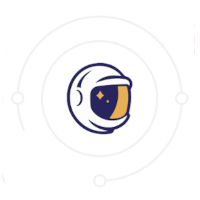
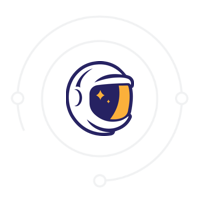
gvisor.dev homepage: Minor fixes.
This CL does the following:

- Add `<strong>emphasis</strong>` on the important keywords for each panel
- Mention "LLM-generated code" as code that can be sandboxed in gVisor
- Change "GPU support" header to "GPU & CUDA support"
- Add PNG transparency to images where it was missing
- Remove link to raw image file on architecture diagram
- Adjust panel icon size
- Adjust `<h2>` margins in panels
- Small CSS cleanups

PiperOrigin-RevId: 548764864

Changed region(s): [[0.33, 0.3, 0.69, 0.69]]

diff --git a/website/_sass/style.scss b/website/_sass/style.scss
@@ -195,6 +195,18 @@ table th {
   margin-bottom: 0px;
 }
 
+/* Reduce h2 margins in the big "solution" panels on the homepage. */
+.panel-solution h2 {
+  margin-top: 1em;
+  margin-bottom: 1em;
+}
+
+/* Same, but also remove the top-margin for the "features" panels. */
+.panel-default h2 {
+  margin-top: 0em;
+  margin-bottom: 1em;
+}
+
 @media (min-width: 480px) {
   /* Set panel height smart phones landscape. */
   .panel-solution {

diff --git a/website/index.md b/website/index.md
@@ -28,14 +28,12 @@
   <div class="container">
     <div class="row">
       <div class="col-md-6 pull-right gallery-popup">
-        <a href="/assets/images/gvisor-high-level-arch.png">
           <img
             src="/assets/images/gvisor-high-level-arch.png"
             alt="gVisor high-level architecture"
             title="gVisor high-level architecture"
             class="img-responsive"
-          >
-        </a>
+          />
       </div>
       <div class="col-md-6 pull-left">
         <div class="divide-xl"></div>
@@ -59,15 +57,15 @@
           alt="gVisor can run untrusted code"
           title="gVisor can run untrusted code"
           class="img-responsive"
-        >
+        />
       </div>
       <div class="col-md-8 pull-right">
         <div class="divide-xl"></div>
         <h2>Run Untrusted Code</h2>
         <p class="info-text">Isolate Linux hosts from containers so you can
-          safely run user-uploaded or third-party code. Add defense-in-depth
-          measures to your stack, bringing additional security to your
-          infrastructure.
+          <strong>safely run user-uploaded, LLM-generated, or third-party
+          code</strong>. Add defense-in-depth measures to your stack, bringing
+          additional security to your infrastructure.
         </p>
         <div class="divide-xl"></div>
       </div>
@@ -81,14 +79,15 @@
           alt="gVisor secure by default"
           title="gVisor secure by default"
           class="img-responsive"
-        >
+        />
       </div>
       <div class="col-md-8 pull-left">
         <div class="divide-xl"></div>
         <h2>Protect Workloads & Infrastructure</h2>
-        <p class="info-text">Fortify hosts and containers against escapes and
-          privilege escalation CVEs, enabling strong isolation for
-          security-critical workloads as well as multi-tenant safety.
+        <p class="info-text">Fortify hosts and containers against
+          <strong>escapes and privilege escalation CVEs</strong>, enabling
+          strong isolation for security-critical workloads as well as
+          multi-tenant safety.
         </p>
         <div class="divide-xl"></div>
       </div>
@@ -100,14 +99,15 @@
         <img src="/assets/images/gvisor-reduce-risk.png"
           alt="gVisor reduces risk"
           title="gVisor reduces risk"
-          class="img-responsive">
+          class="img-responsive"
+        />
       </div>
       <div class="col-md-8 pull-right">
         <div class="divide-xl"></div>
         <h2>Reduce Risk</h2>
         <p class="info-text">Deliver runtime visibility that integrates
-          with popular threat detection tools to quickly identify threats,
-          generate alerts, and enforce policies.
+          with popular <strong>threat detection tools</strong> to quickly
+          identify threats, generate alerts, and enforce policies.
         </p>
         <div class="divide-xl"></div>
       </div>
@@ -127,29 +127,31 @@
         <div class="container" style="margin-top:20px">
           <div class="col-md-1"></div>
           <div class="col-md-5">
-            <div class="panel panel-default panel-solution">
+            <div class="panel panel-solution">
               <div class="panel-body">
-                <div align="center"><span><i class="fas fa-shield-alt fa-2x"></i></span></div>
+                <div align="center"><span><i class="fas fa-shield-alt fa-4x"></i></span></div>
                 <h2 align="center"><span>Improve your container security</span></h2>
                 <p class="info-text">Give your K8s, SaaS, or Serverless
                   infrastructure additional layers of protection when running
-                  end-user code, untrusted code, or third-party code. Enable
-                  strong isolation for sharing resources and delivering
-                  multi-tenant environments.
+                  end-user code, untrusted code, LLM-generated code, or
+                  third-party code. Enable <strong>strong isolation</strong> for
+                  sharing resources and delivering <strong>multi-tenant
+                  environments</strong>.
                 </p>
               </div>
             </div>
           </div>
           <div class="col-md-5">
-            <div class="panel panel-default panel-solution">
+            <div class="panel panel-solution">
               <div class="panel-body">
-                <div align="center"><span><b><i class="fas fa-cogs fa-2x"></i></b></span></div>
+                <div align="center"><span><b><i class="fas fa-cogs fa-4x"></i></b></span></div>
                 <h2 align="center"><span>Deliver security-imperative apps</span></h2>
                 <p class="info-text">gVisor adds defense-in-depth measures to
-                  your containers, allowing you to safeguard security-sensitive
-                  workloads like financial transactions, healthcare services,
-                  personal identifiable information, and other
-                  security-imperative applications.
+                  your containers, allowing you to <strong>safeguard
+                  security-sensitive workloads</strong> like financial
+                  transactions, healthcare services, personal identifiable
+                  information, and other <strong>security-imperative
+                  applications</strong>.
                 </p>
               </div>
             </div>
@@ -161,29 +163,31 @@
         <div class="container" style="margin-bottom:40px">
           <div class="col-md-1"></div>
           <div class="col-md-5">
-            <div class="panel panel-default panel-solution">
+            <div class="panel panel-solution">
               <div class="panel-body">
-                <div align="center"><span><b><i class="fas fa-rocket fa-2x"></i></b></span></div>
+                <div align="center"><span><b><i class="fas fa-rocket fa-4x"></i></b></span></div>
                 <h2 align="center"><span>Increase security productivity</span></h2>
-                <p class="info-text">Isolating your K8s, SaaS, Serverless,
-                  DevSecOps lifecycle or CI/CD pipeline is easy with gVisor.
+                <p class="info-text">Isolate your K8s, SaaS, Serverless,
+                  DevSecOps lifecycle or CI/CD pipeline.
                   gVisor helps you achieve a secure-by-default posture. Spend
-                  less time staying on top of security disclosures, and more
-                  time building what matters.
+                  <strong>less time staying on top of security
+                  disclosures</strong>, and <strong>more time building what
+                  matters</strong>.
                 </p>
               </div>
             </div>
           </div>
           <div class="col-md-5">
-            <div class="panel panel-default panel-solution">
+            <div class="panel panel-solution">
               <div class="panel-body">
-                <div align="center"><span><b><i class="fas fa-check fa-2x"></i></b></span></div>
+                <div align="center"><span><b><i class="fas fa-check fa-4x"></i></b></span></div>
                 <h2 align="center"><span>Enforce compliance</span></h2>
                 <p class="info-text">gVisor safeguards against many
-                  cloud-native attacks by reducing the attack surface exposed
-                  to your containers. Shield services like APIs, configs,
-                  infrastructure as code, DevOps tooling, and supply chains,
-                  lowering the risk present in a typical cloud-native stack.
+                  cloud-native attacks by <strong>reducing the attack
+                  surface</strong> exposed to your containers. Shield services
+                  like APIs, configs, infrastructure as code, DevOps tooling,
+                  and supply chains, lowering the risk present in a typical
+                  cloud-native stack.
                 </p>
               </div>
             </div>
@@ -217,19 +221,21 @@
           <div class="col-md-5">
             <div class="panel panel-default" style="border:none;box-shadow:none;">
               <div class="panel-body">
-                <h2 style="margin-top:0px;">
+                <h2>
                   <a href="docs/architecture_guide/security/#principles-defense-in-depth" class="feature-link">
                     Defense in Depth
                   </a>
                 </h2>
                 <p class="info-text" style="margin-bottom:0px">
-                  gVisor implements the Linux API: by intercepting all
-                  sandboxed application system calls to the kernel, it protects
-                  the host from the application. In addition, gVisor sandboxes
-                  itself from the host using Linux's isolation capabilities.
+                  <strong>gVisor implements the Linux API</strong>: by
+                  intercepting all sandboxed application system calls to the
+                  kernel, it protects the host from the application. In
+                  addition, <strong>gVisor also sandboxes itself from the
+                  host</strong> using Linux's isolation capabilities.
                   Through these layers of defense, gVisor achieves true
-                  defense-in-depth while still providing VM-like performance and
-                  container-like resource efficiency.
+                  defense-in-depth while still providing
+                  <strong>VM-like performance</strong> and
+                  <strong>container-like resource efficiency</strong>.
                 </p>
               </div>
             </div>
@@ -237,16 +243,16 @@
           <div class="col-md-5">
             <div class="panel panel-default" style="border:none;box-shadow:none;">
               <div class="panel-body">
-              <h2 style="margin-top:0px;">
+              <h2>
                 <a href="docs/architecture_guide/security/" class="feature-link">
                   Secure by Default
                 </a>
               </h2>
               <p class="info-text" style="margin-bottom:0px;">gVisor runs with
-                the least amount of privileges and the strictest possible
-                system call filter needed to function. gVisor implements the
-                Linux kernel and its network stack using Go, a memory-safe and
-                type-safe language.
+                the <strong>least amount of privileges</strong> and the
+                strictest possible system call filter needed to function. gVisor
+                implements the Linux kernel and its network stack using Go, a
+                memory-safe and type-safe language.
               </p>
               </div>
             </div>
@@ -260,15 +266,15 @@
           <div class="col-md-5">
             <div class="panel panel-default" style="border:none;box-shadow:none;">
               <div class="panel-body">
-                <h2 style="margin-top:0px;">
+                <h2>
                   <a href="docs/architecture_guide/platforms/" class="feature-link">
                     Runs Anywhere
                   </a>
                 </h2>
-                <p class="info-text" style="margin-bottom:0px;">gVisor runs
-                  anywhere Linux does. It works on x86 and ARM, on VMs or
-                  bare-metal, and does not require virtualization support.
-                  gVisor works well on all popular cloud providers.
+                <p class="info-text" style="margin-bottom:0px;">gVisor
+                  <strong>runs anywhere Linux does</strong>. It works on x86 and
+                  ARM, on VMs or bare-metal, and does not require virtualization
+                  support. gVisor works well on all popular cloud providers.
                 </p>
               </div>
             </div>
@@ -276,15 +282,15 @@
           <div class="col-md-5">
             <div class="panel panel-default" style="border:none;box-shadow:none;">
               <div class="panel-body">
-                <h2 style="color:#272261;margin-top:0px;">
+                <h2 style="color:#272261">
                   <a href="docs/user_guide/compatibility/" class="feature-link">
                     Cloud Ready
                   </a>
                 </h2>
-                <p class="info-text" style="margin-bottom:0px;">gVisor works
-                  with Docker, Kubernetes, and containerd. Many popular
-                  applications and images are deployed in production
-                  environments on gVisor.
+                <p class="info-text" style="margin-bottom:0px;">gVisor
+                  <strong>works with Docker, Kubernetes, and
+                  containerd</strong>. Many popular applications and images are
+                  deployed in production environments on gVisor.
                 </p>
               </div>
             </div>
@@ -298,7 +304,7 @@
           <div class="col-md-5">
             <div class="panel panel-default" style="border:none;box-shadow:none;">
               <div class="panel-body">
-                <h2 style="color:#272261;margin-top:0px;">
+                <h2 style="color:#272261">
                   <a href="docs/architecture_guide/performance/" class="feature-link">
                     Fast Startups and Execution
                   </a>
@@ -307,8 +313,8 @@
                   containers start up in milliseconds and have minimal resource
                   overhead. They act like, feel like, and <em>actually are</em>
                   containers, not VMs. Their resource consumption can scale up
-                  and down at runtime, enabling container-native levels of
-                  scheduling efficiency.
+                  and down at runtime, enabling <strong>container-native
+                  resource efficiency</strong>.
                 </p>
               </div>
             </div>
@@ -316,16 +322,16 @@
           <div class="col-md-5">
             <div class="panel panel-default" style="border:none;box-shadow:none;">
               <div class="panel-body">
-                <h2 style="color:#272261;margin-top:0px;">
+                <h2 style="color:#272261">
                   <a href="docs/user_guide/checkpoint_restore/" class="feature-link">
                     Checkpoint and Restore
                   </a>
                 </h2>
                 <p class="info-text" style="margin-bottom:0px;">gVisor can
-                  checkpoint and restore containers. Use it to cache warmed up
-                  services, resume workloads on other machines, snapshot
-                  execution, save state for forensics, or branch interactive
-                  REPL sessions.
+                  <strong>checkpoint and restore containers</strong>. Use it to
+                  cache warmed-up services, resume workloads on other machines,
+                  snapshot execution, save state for forensics, or branch
+                  interactive REPL sessions.
                 </p>
               </div>
             </div>
@@ -339,16 +345,17 @@
           <div class="col-md-5">
             <div class="panel panel-default" style="border:none;box-shadow:none;">
               <div class="panel-body">
-                <h2 style="color:#272261;margin-top:0px;">
+                <h2 style="color:#272261">
                   <a href="/docs/user_guide/runtimemonitor/" class="feature-link">
                     Runtime Monitoring
                   </a>
                 </h2>
                 <p class="info-text" style="margin-bottom:0px;">Observe runtime
                   behavior of your applications by streaming application actions
-                  (trace points) to an external threat detection engine like
-                  <a href="https://falco.org" style="color:#272261">
-                    Falco</a> and generate alerts.
+                  (trace points) to an external <strong>threat detection
+                  engine</strong> like
+                  <a href="https://falco.org" style="color:#272261">Falco</a>
+                  and generate alerts.
                 </p>
               </div>
             </div>
@@ -356,14 +363,14 @@
           <div class="col-md-5">
             <div class="panel panel-default" style="border:none;box-shadow:none;">
               <div class="panel-body">
-                <h2 style="color:#272261;margin-top:0px;">
+                <h2 style="color:#272261">
                   <a href="blog/2023/06/20/gpu-pytorch-stable-diffusion/" class="feature-link">
-                    GPU Support
+                    GPU &amp; CUDA Support
                   </a>
                 </h2>
                 <p class="info-text" style="margin-bottom:0px;">gVisor
-                  applications can use CUDA on Nvidia GPUs, bringing isolation
-                  to AI/ML workloads.
+                  applications can <strong>use CUDA on Nvidia GPUs</strong>,
+                  bringing isolation to AI/ML workloads.
                 </p>
               </div>
             </div>
